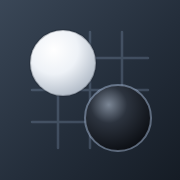
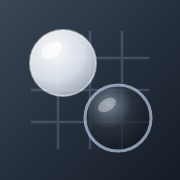
Give the mark a glass treatment
The dark stone is now translucent, so the white one shows through where they
overlap — that lens is what reads as glass. Both stones get an off-centre
radial gradient and a specular highlight, the same construction the board uses
to draw its stones.

Straight opacity would have made this worse, not prettier: a translucent white
stone on a dark header turns grey, and a translucent dark one disappears
altogether. So the alpha is high away from the overlap and both rims stay
opaque, which keeps the silhouette while the overlap does the work.

The home-screen icon gets the same treatment, since 180px is where the
highlight actually pays off and the two need to stay one identity. The favicon
stays flat — at 16px gradients only muddy it.

diff --git a/tools/icon.html b/tools/icon.html
@@ -10,21 +10,23 @@
       <stop offset=".55" stop-color="#242e3b"/>
       <stop offset="1" stop-color="#151c25"/>
     </linearGradient>
-    <radialGradient id="w" cx=".36" cy=".3" r=".82">
-      <stop offset="0" stop-color="#ffffff"/>
-      <stop offset=".45" stop-color="#eef2f7"/>
-      <stop offset="1" stop-color="#a3aebc"/>
+    <radialGradient id="w" cx=".36" cy=".3" r=".85">
+      <stop offset="0" stop-color="#ffffff" stop-opacity=".97"/>
+      <stop offset=".55" stop-color="#e8eef6" stop-opacity=".9"/>
+      <stop offset="1" stop-color="#adbaca" stop-opacity=".74"/>
     </radialGradient>
-    <radialGradient id="b" cx=".36" cy=".3" r=".82">
-      <stop offset="0" stop-color="#7b8695"/>
-      <stop offset=".34" stop-color="#2c333e"/>
-      <stop offset="1" stop-color="#05070b"/>
+    <radialGradient id="b" cx=".36" cy=".3" r=".85">
+      <stop offset="0" stop-color="#8d9aab" stop-opacity=".82"/>
+      <stop offset=".42" stop-color="#2a323d" stop-opacity=".76"/>
+      <stop offset="1" stop-color="#070a0f" stop-opacity=".62"/>
     </radialGradient>
   </defs>
   <rect width="180" height="180" fill="url(#bg)"/>
   <g stroke="rgba(178,205,240,.2)" stroke-width="2.5" stroke-linecap="round">
     <path d="M32 58H148M32 90H148M32 122H148M58 32V148M90 32V148M122 32V148"/>
   </g>
-  <circle cx="63" cy="63" r="33" fill="url(#w)" stroke="rgba(20,28,40,.28)" stroke-width="2"/>
-  <circle cx="118" cy="118" r="33" fill="url(#b)" stroke="rgba(200,222,255,.4)" stroke-width="2"/>
+  <circle cx="63" cy="63" r="33" fill="url(#w)" stroke="rgba(255,255,255,.5)" stroke-width="2"/>
+  <circle cx="118" cy="118" r="33" fill="url(#b)" stroke="rgba(206,226,255,.62)" stroke-width="3"/>
+  <ellipse cx="52" cy="50" rx="11.5" ry="7" transform="rotate(-32 52 50)" fill="#fff" opacity=".62"/>
+  <ellipse cx="107" cy="105" rx="10" ry="6" transform="rotate(-32 107 105)" fill="#fff" opacity=".34"/>
 </svg>

diff --git a/index.html b/index.html
@@ -158,8 +158,22 @@
 <header>
   <h1>
     <svg class="mark" viewBox="0 0 32 32" aria-hidden="true" focusable="false">
-      <circle cx="11.8" cy="11.8" r="8.4" fill="#eef2f7"/>
-      <circle cx="20.2" cy="20.2" r="8.4" fill="#12171e" stroke="rgba(206,226,255,.65)" stroke-width="1.5"/>
+      <defs>
+        <radialGradient id="mkW" cx=".36" cy=".3" r=".85">
+          <stop offset="0" stop-color="#ffffff" stop-opacity=".97"/>
+          <stop offset=".55" stop-color="#e8eef6" stop-opacity=".88"/>
+          <stop offset="1" stop-color="#adbaca" stop-opacity=".7"/>
+        </radialGradient>
+        <radialGradient id="mkB" cx=".36" cy=".3" r=".85">
+          <stop offset="0" stop-color="#8d9aab" stop-opacity=".8"/>
+          <stop offset=".42" stop-color="#2a323d" stop-opacity=".74"/>
+          <stop offset="1" stop-color="#070a0f" stop-opacity=".6"/>
+        </radialGradient>
+      </defs>
+      <circle cx="11.8" cy="11.8" r="8.4" fill="url(#mkW)" stroke="rgba(255,255,255,.55)" stroke-width=".8"/>
+      <circle cx="20.2" cy="20.2" r="8.4" fill="url(#mkB)" stroke="rgba(206,226,255,.7)" stroke-width="1.4"/>
+      <ellipse cx="8.9" cy="8.5" rx="2.8" ry="1.7" transform="rotate(-32 8.9 8.5)" fill="#fff" opacity=".6"/>
+      <ellipse cx="17.3" cy="16.9" rx="2.5" ry="1.5" transform="rotate(-32 17.3 16.9)" fill="#fff" opacity=".32"/>
     </svg>
     <span data-i18n="title"></span>
   </h1>
